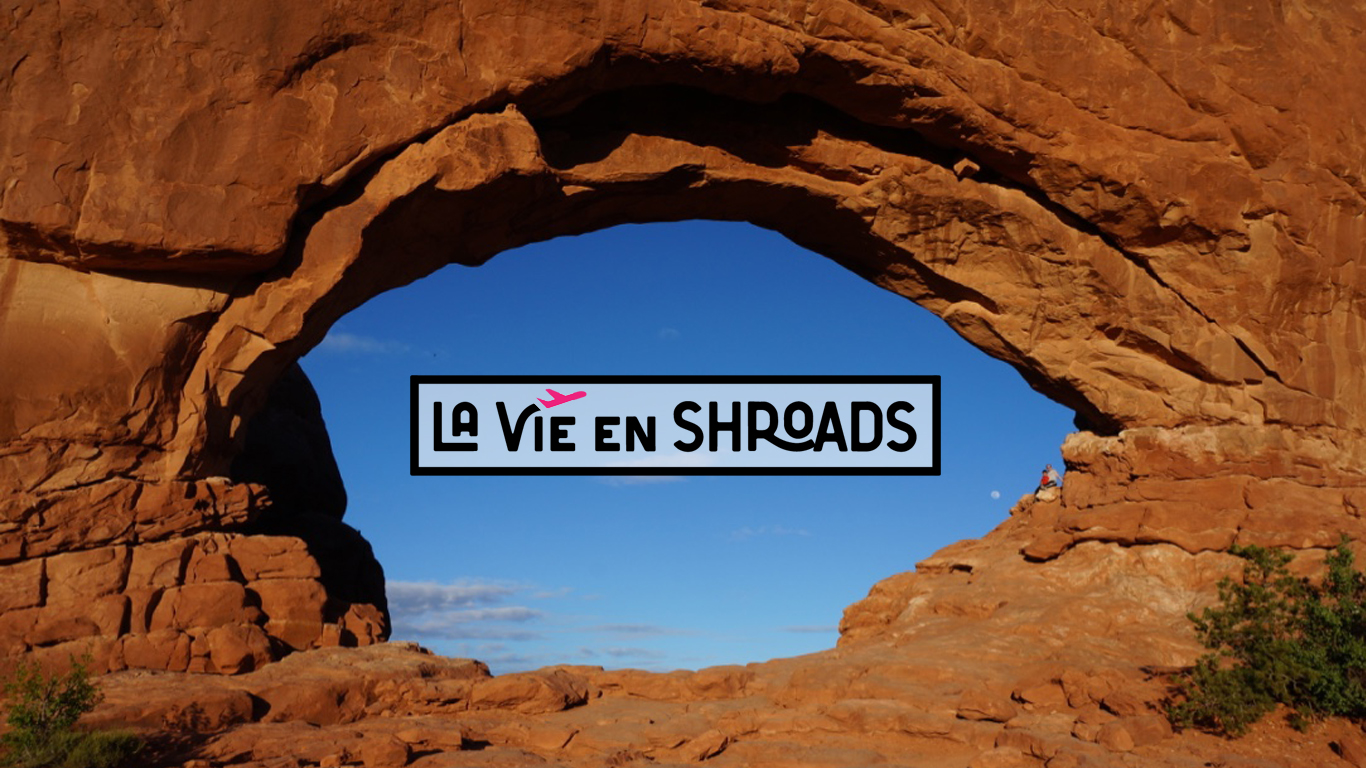
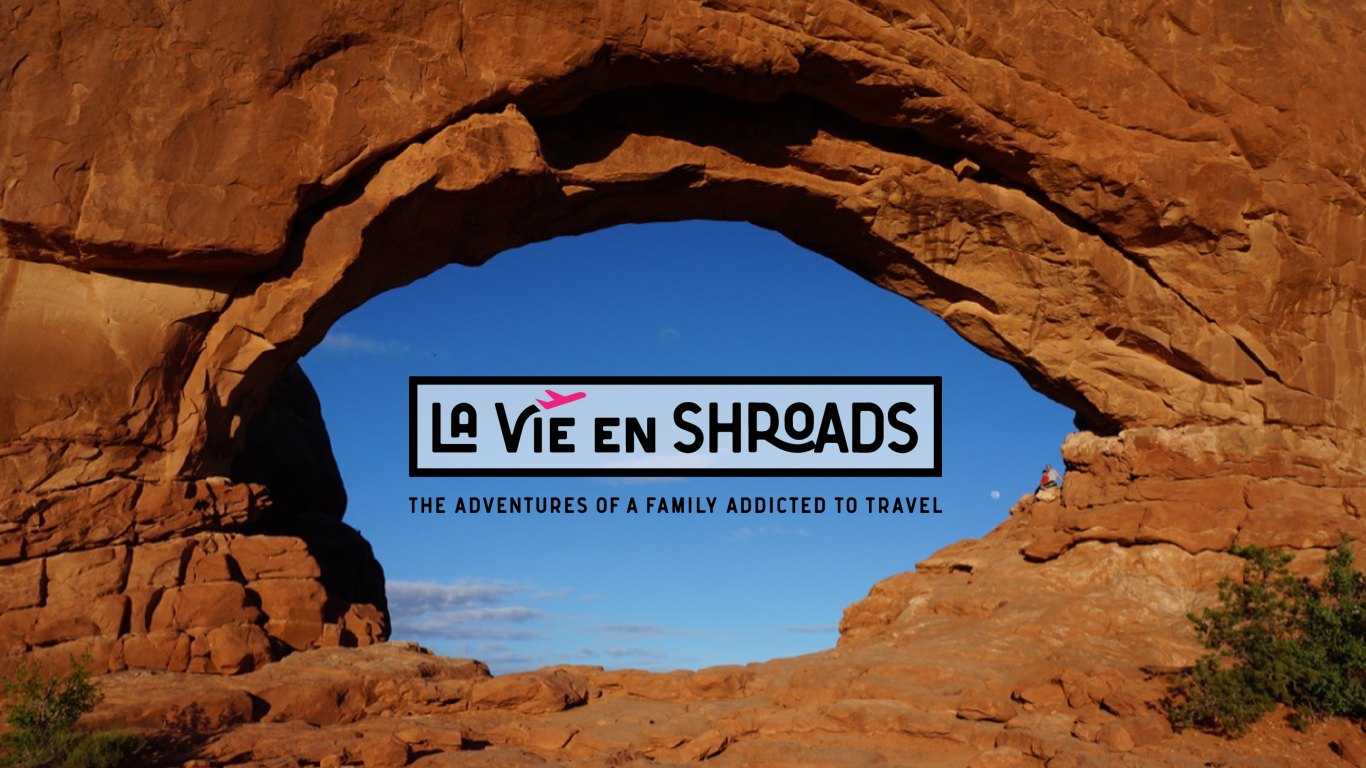
Updated CSS in Unit 3 and the homepage photo

Changed region(s): [[0.3075, 0.4688, 0.7072, 0.6875], [0.6764, 0.5, 0.7072, 0.5312]]

diff --git a/unit_4/week4/index.html b/unit_4/week4/index.html
@@ -1,0 +1,88 @@
+<!DOCTYPE html>
+<html>
+    <head>
+        <meta charset="UTF-8">
+        <title>I &hearts; Neil</title>
+        <link rel="stylesheet" type="text/css" href="css/style.css">
+    </head>
+
+    <body>
+        <div id="lander">
+            <nav>
+                <a class="navlinks" href="#">home</a>
+                <a class="navlinks" href="#">other neils</a>
+                <a class="navlinks" href="#">some plants neil likes</a>
+                <a class="navlinks" href="#">conclusion</a>
+            </nav>
+            <header>
+                <h1>Neil deGrasse Tyson is the coolest Neil in the universe.</h1>
+            </header>
+        </div>
+
+        <main>
+        <h2>Other Neils</h2>
+            <section class="neils">
+                <img src="assets/neilpatrickharris.jpg" alt="Neil Patrick Harris" title="a Neil who acts">
+                <h3>Neil Patrick Harris</h3>
+                <hr>
+                <p>This Neil is an American actor, producer, singer, comedian, magician, and television host. He is known for playing Barney Stinson in the television comedy series <a href="#">How I Met Your Mother</a>, for which he was nominated for four Emmy Awards, and for his role as the title character in Doogie Howser, M.D. That's great and all, but does he wear a tie with our solar system on it? No.</p>
+            </section>
+            <section class="neils">
+                <img src="assets/neildiamond.jpg" alt="Neil Diamond" title="a Neil who sings">
+                <h3>Neil Diamond</h3>
+                <hr>
+                <p>This particlular Neil is an American singer-songwriter and musician with a career that began in the 1960s. Diamond has sold <a href="#">over 100 million records worldwide</a>, making him one of the world's best-selling artists of all time. However, it has not been proven that Neil deGrasse Tyson cannot sing well, so this Neil is null.</p>
+            </section>
+            <section class="neils">
+                <img src="assets/neilyoung.jpg" alt="Neil Young" title="a Neil from Canada">
+                <h3>Neil Young</h3>
+                <hr>
+                <p>Here's another Neil that can sing. The Rock and Roll Hall of Fame website describes Young as "one of rock and roll's greatest songwriters and performers". He was inducted into the Hall of Fame twice, first as a solo artist in 1995, and second as a member of <a href="#">Buffalo Springfield</a> in 1997. But Neil deGrasse Tyson was a member of the Harvard Crew team, so...</p>
+            </section>
+            <section class="neils">
+                <img src="assets/youngneil.jpg" alt="Neil deGrasse Tyson as a young man" title="the greatest Neil">
+                <h3>Young Neil</h3>
+                <hr>
+                <p>This is a picture of Neil dGT as a very badass young man. This photo was probably taken minutes before he officially became the coolest Neil in the universe. His <a href="#">space t-shirt</a> most likely helped moved him from second-coolest to coolest.</p>
+            </section>
+        </main>
+       
+        <section id="planets">
+            <h2>Some planets Neil likes</h2>
+            <hr id="planets-rule">
+            <div class="planet">
+                <h3>Mercury</h3>
+                <img src="assets/mercury.jpg" alt="The Planet Mercury" title="Mercury!">
+                <ul>
+                    <li>46 to 70 million km from sun</li>
+                    <li>Composed of 42% molecular oxygen</li>
+                    <li>Tempuratures range from −280 to 800°F</li>
+                </ul>
+            </div>
+
+            <div class="planet">
+                <h3>Venus</h3>
+                <img src="assets/Venus.jpg" alt="Venus" title="Venus!">
+                <ul>
+                    <li>108 million km from sun</li>
+                    <li>Composed of 96.5% carbon dioxide</li>
+                    <li>Tempuratures peak at 863°F</li>
+                </ul>
+            </div>
+
+            <div class="planet">
+                <h3>Earth</h3>
+                <img src="assets/earth.jpg" alt="Earth" title="Earth!">
+                <ul>
+                    <li>149.6 million km from sun</li>
+                    <li>Is not at center of universe</li>
+                    <li>Where Neil deGrasse Tyson lives</li>
+                </ul>
+            </div>
+        </section>
+
+        <footer>
+            <h4>In conclusion, NdGT is really great.</h4>
+        </footer>
+    </body>
+</html>

diff --git a/unit_3/index.html b/unit_3/index.html
@@ -1,51 +1,55 @@
 <!DOCTYPE HTML>
 <html>
-<div class="topnav">
-  <a class="active" href="#home">Home</a>
-  <a href="#destinations">Destinations</a>
-  <a href="#about">About</a>
-</div>
-
-  <head>
+<head>
     <title>La Vie en Shroads</title>
     <link rel="stylesheet" type="text/css" href="css/style.css">
-  </head>
-  <body>
-  	<h1>La Vie en Shroads</h1>
-    <slogan>The Adventures of a Family Addicted to Travel</slogan>
-    <img src="https://ashroads.github.io/unit_3/images/la-vie-en-shroads-homepage.jpg" alt="Arches National Monument">
+</head>
 
-    <p>We are a small American family trying to experience this big wide world together! Our roots run far and wide: from Ireland to Brazil, from Austria to Russia. We've lived abroad and studied abroad. We've been mugged abroad and met new friends abroad. We hope that by continuing to travel with our son, he'll learn to share this passion for new experiences and connections with other people from around the world. Join us on our adventures here, at La Vie en Shroads!</p>
+<body>
+	<header>
+	<nav/>
+		<a href="#">HOME</a>
+		<a href="#">DESTINATIONS</a>
+		<a href="#">ABOUT</a>
+	</nav>
+	
+	<h1>La Vie en Shroads</h1>
+	<slogan>The Adventures of a Family Addicted to Travel</slogan>
+	</header>
 
-    <p>Say hi to us:<a href="mailto:ashroads@gmail.com?subject=Hi les Shroads!">ashroads@gmail.com</a></p>
+	<img src="https://ashroads.github.io/unit_3/images/la-vie-en-shroads-homepage.jpg" alt="Arches National Monument" title="la-vie-en-shroads-homepage">
 
-    <p>New York City</p>
-    <p>Hamilton Tour</p>
-    <p>2018</p>
+	<p>We are a small American family trying to experience this big wide world together! Our roots run far and wide: from Ireland to Brazil, from Austria to Russia. We've lived abroad and studied abroad. We've been mugged abroad and met new friends abroad. We hope that by continuing to travel with our son, he'll learn to share this passion for new experiences and connections with other people from around the world. Join us on our adventures here, at La Vie en Shroads!</p>
 
-    <p>California</p>
-    <p>2018</p>
+	<p>Say hi to us: <a href="mailto:ashroads@gmail.com?subject=Hi les Shroads!">ashroads@gmail.com</a></p>
 
-    <p>Oman</p>
-    <p>United Arab Emirates</p>
-    <p>2018</p>
+	<p>New York City</p>
+	<p>Hamilton Tour</p>
+	<p>2018</p>
+
+	<p>California</p>
+	<p>2018</p>
+
+	<p>Oman</p>
+	<p>United Arab Emirates</p>
+	<p>2018</p>
 
 	<p>The Outer Banks</p>
-    <p>2017</p>
+	<p>2017</p>
 
-    <p>Guadeloupe</p>
-    <p>2017</p>
+	<p>Guadeloupe</p>
+	<p>2017</p>
 
-    <p>France</p>
-    <p>2016</p>
+	<p>France</p>
+	<p>2016</p>
 
-    <p>Arizona</p>
-    <p>Utah</p>
-    <p>Colorado</p>
-    <p>2016</p>
+	<p>Arizona</p>
+	<p>Utah</p>
+	<p>Colorado</p>
+	<p>2016</p>
 
-    <p>France</p>
-    <p>2015</p>
+	<p>France</p>
+	<p>2015</p>
 
   </body>
 </html>

diff --git a/unit_4/week4/css/style.css b/unit_4/week4/css/style.css
@@ -1,0 +1,160 @@
+@import url(https://fonts.googleapis.com/css?family=Racing+Sans+One);
+@import url(https://fonts.googleapis.com/css?family=Crimson+Text);
+@import url(https://fonts.googleapis.com/css?family=Allerta);
+
+
+*{
+	margin:0;
+	padding:0;
+	box-sizing:border-box;
+}
+
+body{
+	background-color: #201828;
+	font-size: 16px; /*1em = 16px*/
+	text-align: center;
+	position: relative;
+}
+
+header{
+	padding:0 200px;
+}
+
+nav{
+	margin:auto;
+}
+
+main{
+	background-color: #F1E9E4;
+	color:#3C3C3C;
+	padding:50px 0;
+}
+
+section{
+	padding:50px 0;
+}
+
+footer{
+	background:url(../assets/stars.jpg) no-repeat center center scroll;
+	-webkit-background-size: cover;
+	-moz-background-size: cover;
+	-o-background-size: cover;
+	background-size: cover;
+	color:#3C3C3C;
+	padding:50px 0;
+}
+
+h1{
+	font-family: 'Racing Sans One', sans-serif;
+	font-weight: normal;
+	font-size:60px;
+	text-align:center;
+	color:#fff;
+	margin:200px 0 0;
+}
+
+h2,
+h3,
+h4{
+	font-family: 'Allerta', 'Arial', sans-serif;
+}
+
+h2{
+	font-size:3em;
+}
+
+h3{
+	font-size:2.25em;
+}
+
+h4{
+	font-size:1.5em;
+	text-align:center;
+}
+
+hr{
+	border:none;
+	height:3px;
+	background-color: #3C3C3C;
+	width:2em;
+	margin:1em auto;
+}
+
+p{
+	font-family: 'Crimson Text', serif;
+	font-size:1em;
+	line-height: 1.5em;
+}
+
+ul{
+	list-style:none;
+}
+
+li{
+	font-family: 'Crimson Text', serif;
+}
+
+a{
+	text-decoration:none;
+	color:#000;
+	border-bottom: 1px solid #000;
+	padding-bottom:2px;
+}
+
+img{
+	width:100%;
+}
+
+.navlinks{
+	font-family: 'Allerta', sans-serif;
+	color:#fff;
+	text-transform: uppercase;
+	font-weight: 600;
+	letter-spacing: 2px;
+	
+
+	padding:20px;
+
+/*	padding-top: 10px;
+	padding-right: 40px;
+	padding-bottom: 20px;
+	padding-left: 40px;*/
+
+
+
+
+    margin: 0 20px;
+    border:none;
+    background-color: purple;
+}
+
+.neils{
+ 	width:30em;
+ 	margin:2em auto;
+ 	background-color: orange;
+}
+
+.planet{
+	width:500px;
+	margin:50px auto;
+	padding:20px 0 40px;
+}
+
+#lander{
+	background:url(../assets/carina-nebula.jpg) no-repeat center center scroll;
+	-webkit-background-size: cover;
+	-moz-background-size: cover;
+	-o-background-size: cover;
+	background-size: cover;
+	height:750px;
+	padding:20px 0;
+}
+
+#planets{
+	background-color:#000;
+	color:#F1E9E4;
+}
+
+#planets-rule{
+
+}

diff --git a/unit_3/css/style.css b/unit_3/css/style.css
@@ -1,11 +1,45 @@
+* {
+padding: 0;
+margin: 0;
+}
+
+body {
+	font-family: Arial, sans-serif;
+	font-size: 16px; /*1em = 16px*/
+	color: #222222;
+	line-height: 1.3;
+}
+
+header {
+	background-color: #FFF;
+	color: #707070;
+	padding: 20px;
+}
+
 h1 {
      font-family: Arial, sans-serif;
      color: #FF0060;
+}
 
+a {
+	color: inherit;
+	text-decoration: none;
+}
+
+nav a {
+	color: #707070;
+	font-size: 16px;
+	margin-right: 100px;
+}
+
+img {
+	width: 100%;
 }
 
 p	{
 	font-family: Arial, sans-serif;
+	font-size: 1em; 
+	font-width: 30em;
 	font-weight: normal;
 	color: #707070;
 }
